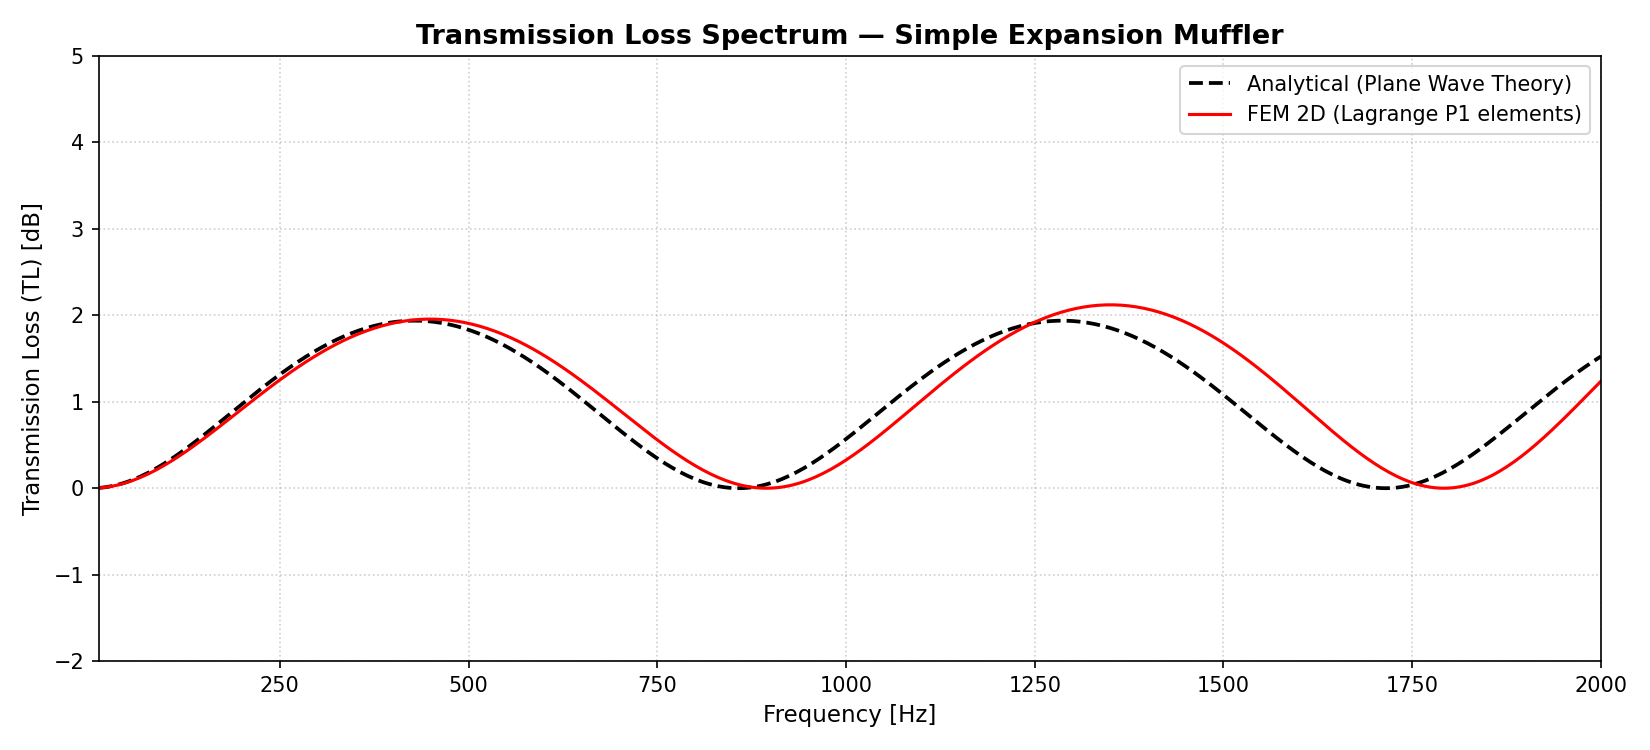
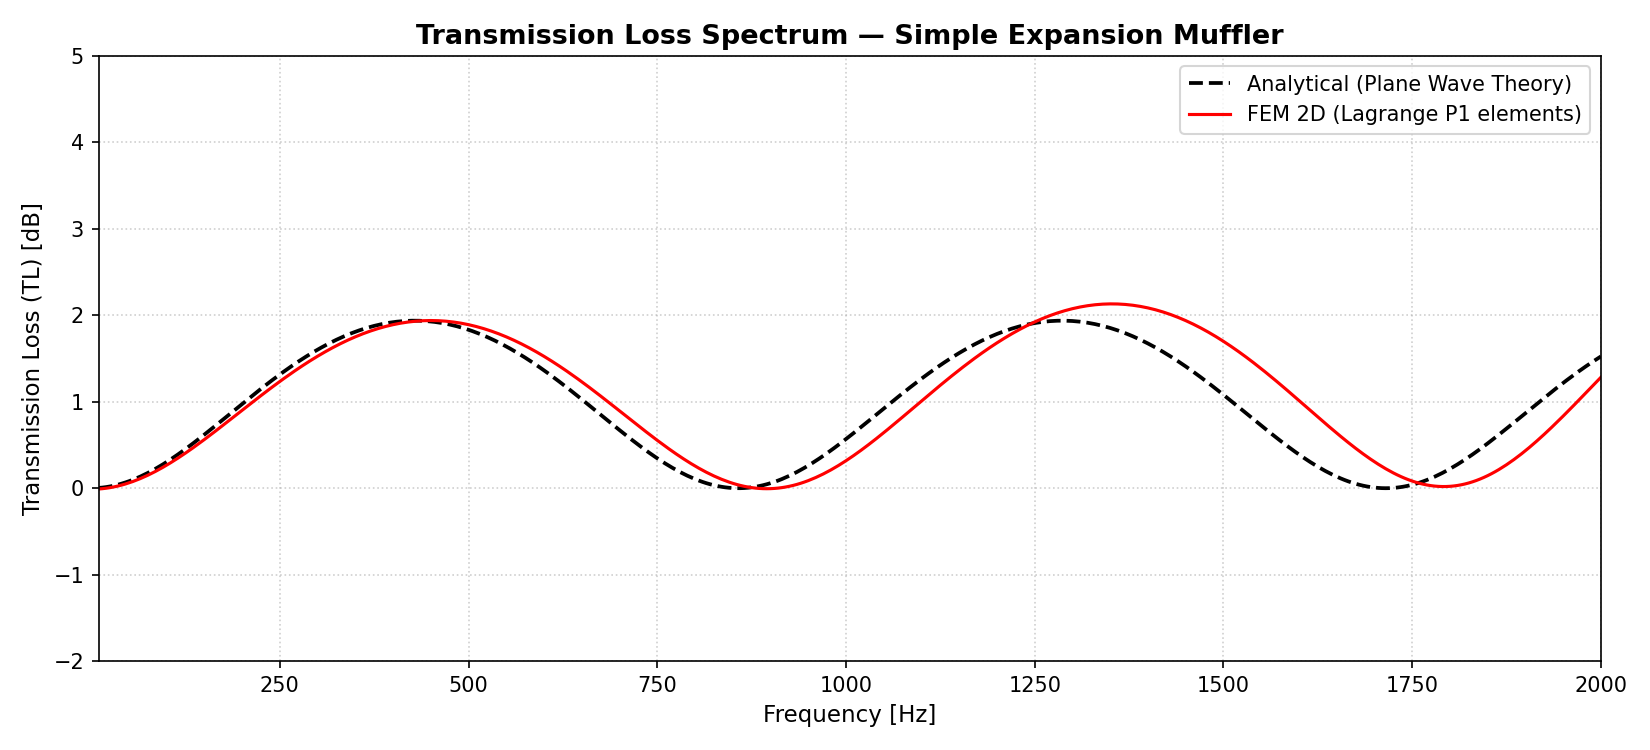
Fix: convert PosixPath to str before passing to gmsh

diff --git a/gmsh/geometry.py b/gmsh/geometry.py
@@ -110,7 +110,7 @@ def generate_muffler_mesh(h_size, output_file=None, recombine_quads=True):
      
     # Write the mesh to disk in gmsh format (.msh).
     if output_file:
-        gmsh.write(output_file)
+        gmsh.write(str(output_file))
         print(f"\nMesh written to: {output_file}")
         
     domain, cell_tags, facet_tags, _, _, _ = dolfinx_gmsh.model_to_mesh(
